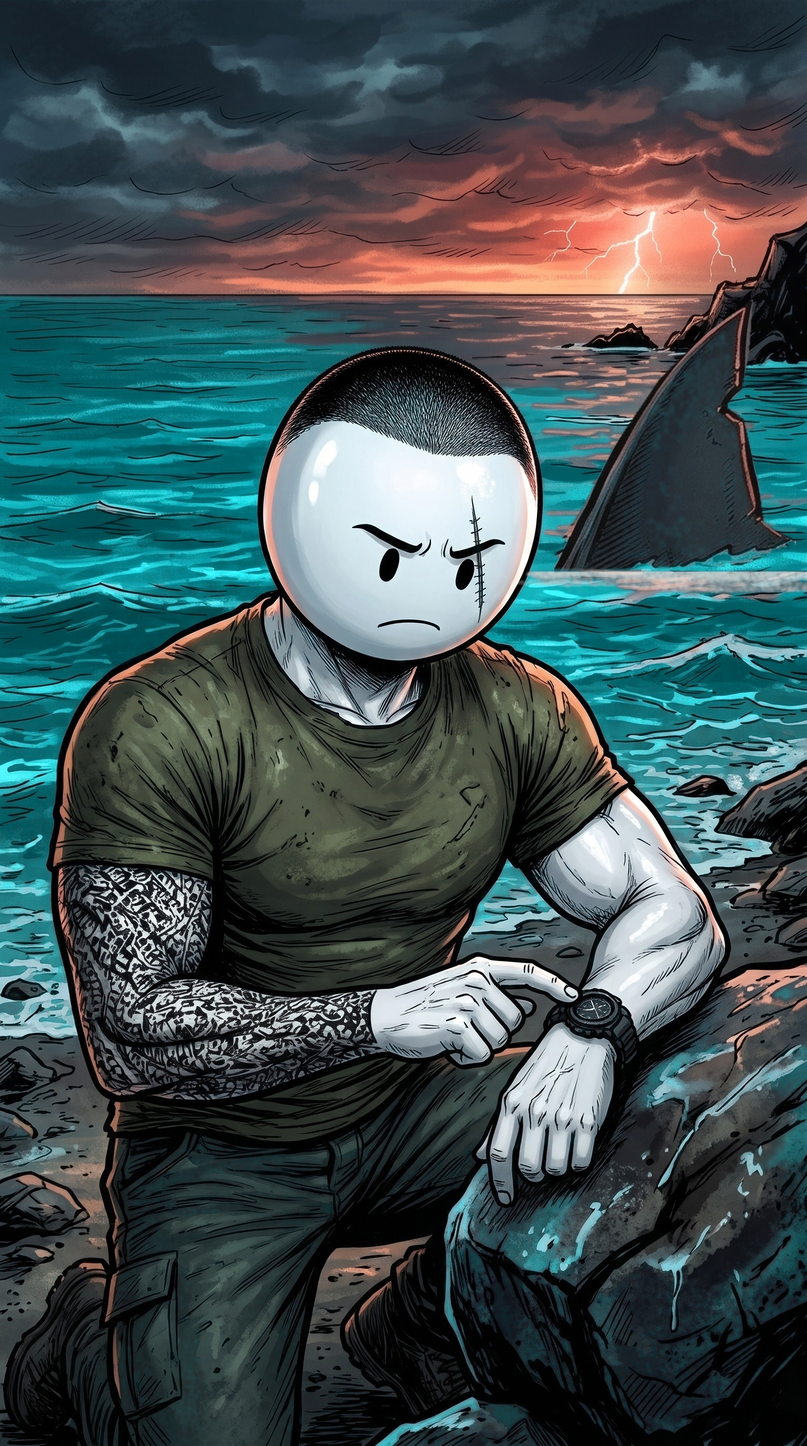
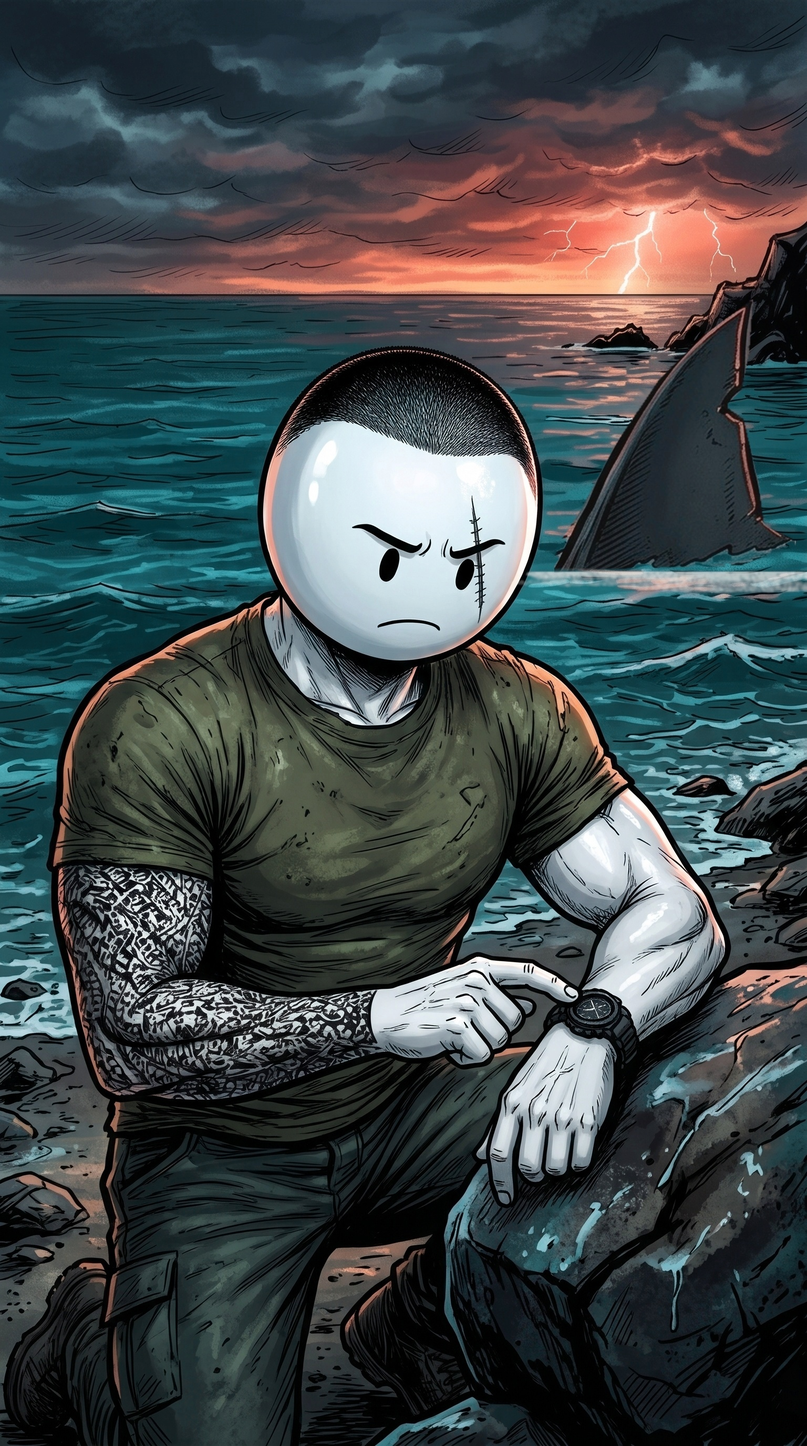
ADA 9: 09a deniz rengi 07 ve 15 gibi koyu karamsar turkuaz
Claude-Session: https://claude.ai/code/session_014JxJGGMAcsX945kBrKhihb

diff --git a/hikaye-video/projeler/ada9/deniz-renk.py b/hikaye-video/projeler/ada9/deniz-renk.py
@@ -1,5 +1,5 @@
 #!/usr/bin/env python3
-"""09a: deniz rengini diğer sahnelerdeki parlak turkuaz-yeşile yaklaştırır (ton, doygunluk, parlaklık).
+"""09a: deniz rengini 07 ve 15 gibi koyu, karamsar turkuaza yaklaştırır (ton, doygunluk; parlaklık aynı).
 Kullanım: python3 deniz-renk.py <giris.jpg> <cikti.jpg>"""
 import sys, cv2, numpy as np
 im = cv2.imread(sys.argv[1]); H, W = im.shape[:2]
@@ -10,9 +10,9 @@ yy = np.arange(H)[:, None].astype(np.float32)
 m = np.clip((h - 88) / 4, 0, 1) * np.clip((108 - h) / 4, 0, 1)      # mavi-yeşil ton aralığı
 m *= np.clip((s - 70) / 25, 0, 1) * np.clip((yy - HOR) / 20, 0, 1)   # doygun ve ufuk çizgisinin altında
 m = cv2.GaussianBlur(m, (0, 0), 2.0)
-h2 = h + (91 - h) * 0.8
-s2 = np.clip(s * 1.55 + 18, 0, 255)
-v2 = np.clip(v * 1.38 + 10, 0, 255)
+h2 = h + (93 - h) * 0.7
+s2 = np.clip(s * 1.3 + 12, 0, 255)
+v2 = np.clip(v * 0.97 + 2, 0, 255)
 hsv2 = np.dstack([h * (1 - m) + h2 * m, s * (1 - m) + s2 * m, v * (1 - m) + v2 * m])
 out = cv2.cvtColor(np.clip(hsv2, 0, 255).astype(np.uint8), cv2.COLOR_HSV2BGR)
 cv2.imwrite(sys.argv[2], out, [cv2.IMWRITE_JPEG_QUALITY, 95]); print('tamam')
